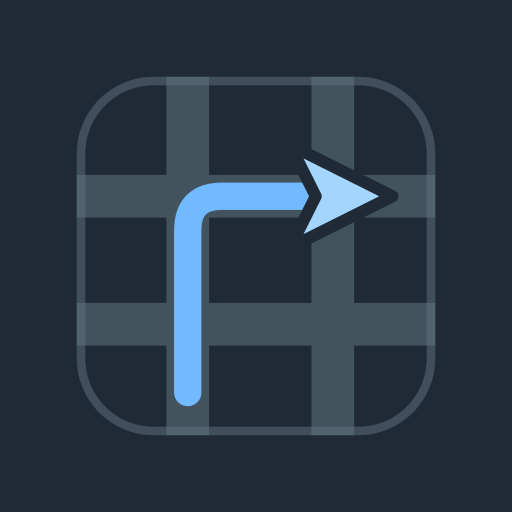
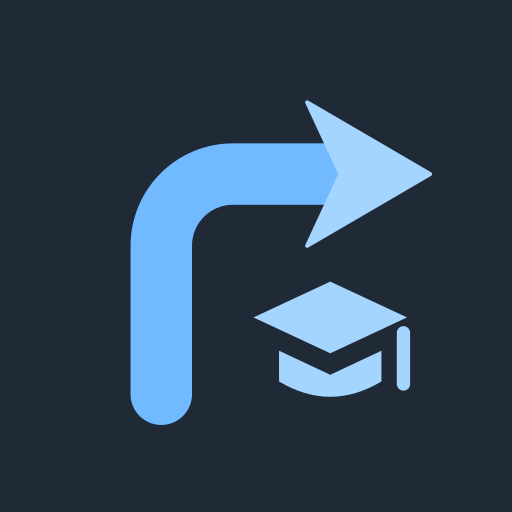
Apply B2 campus branding across the app

Changed region(s): [[0.125, 0.125, 0.875, 0.875]]

diff --git a/web/src/BrandMark.tsx b/web/src/BrandMark.tsx
@@ -1,42 +1,39 @@
-/** The offline map tile, with a right-facing navigation arrow. Keep the asset generator in sync. */
+/** B2 campus mark: a right-turn route and academic cap. Keep the asset generator in sync. */
 export function BrandMark({ size = 24 }: { size?: number }) {
   return (
     <svg
       width={size}
       height={size}
-      viewBox="0 0 42 42"
+      viewBox="0 0 100 100"
       fill="none"
       aria-hidden="true"
       focusable="false"
     >
-      <rect width="42" height="42" rx="9" fill="#202a36" />
+      <rect width="100" height="100" rx="22" fill="#202A36" />
       <path
-        d="M0 14h42M0 29h42M13 0v42M30 0v42"
-        stroke="#43535e"
-        strokeWidth="5"
-      />
-      <rect
-        x=".5"
-        y=".5"
-        width="41"
-        height="41"
-        rx="8.5"
-        stroke="#627582"
-        strokeOpacity=".5"
-      />
-      <path
-        d="M13 37V18q0-4 4-4h13"
-        stroke="#72baff"
-        strokeWidth="3.2"
+        d="M31.5 77V48A14 14 0 0 1 45.5 34H68"
+        stroke="#72BAFF"
+        strokeWidth="12"
         strokeLinecap="round"
       />
       <path
-        d="m37 14-12-6 3 6-3 6Z"
-        fill="#a4d5ff"
-        stroke="#202a36"
-        strokeWidth="1.4"
+        d="M84 34L60 20L66.5 34L60 48Z"
+        fill="#A4D5FF"
+        stroke="#A4D5FF"
+        strokeWidth=".8"
         strokeLinejoin="round"
       />
+      <g fill="#A4D5FF">
+        <path d="M49.5 62L64.5 55L79.5 62L64.5 69Z" />
+        <path d="M54.5 68.5L64.5 73.2L74.5 68.5V74.5Q64.5 80.5 54.5 74.5Z" />
+        <path
+          d="M78.8 65V75"
+          fill="none"
+          stroke="#A4D5FF"
+          strokeWidth="2.6"
+          strokeLinecap="round"
+        />
+      </g>
     </svg>
   );
 }

diff --git a/docs/BRAND.md b/docs/BRAND.md
@@ -1,6 +1,6 @@
 # TurnRight identity
 
-TurnRight’s mark adapts the public map’s offline tile: a slate street grid, a bright blue turning route and a navigation arrow at its endpoint. The simplified arrow and strong route remain readable at small sizes. The name remains **TurnRight** with a capital T and R.
+TurnRight’s selected **B2** mark combines a bold blue right-turn route with a graduation cap on a slate tile. The route identifies navigation; the cap signals school campuses. The clean background keeps the arrow prominent at small sizes. The name remains **TurnRight** with a capital T and R.
 
 ![TurnRight horizontal wordmark](assets/brand/wordmark.svg)
 
@@ -15,12 +15,14 @@ TurnRight’s mark adapts the public map’s offline tile: a slate street grid, 
 | `web/public/favicon.svg`, `icon-16.png`, `icon-32.png` | Browser icons |
 | `web/public/apple-touch-icon.png` | 180 px Apple touch icon |
 | `web/public/icon-192.png`, `icon-512.png` | Standard PWA icons |
-| `web/public/icon-maskable-192.png`, `icon-maskable-512.png` | Separately padded maskable PWA icons |
+| `web/public/icon-maskable-192.png`, `icon-maskable-512.png` | Full-background maskable PWA icons |
 
 The editable source is `web/src/BrandMark.tsx` and `web/scripts/brand-assets.mjs`. Regenerate assets with `node scripts/brand-assets.mjs` from `web/`. Wordmark text remains editable SVG text, using Inter with an Arial fallback. The app uses the same reusable BrandMark in public, editor and authentication views.
 
+The [11 October 2026 mobile capture](assets/brand/b2-public-mobile-2026-10-11.png) shows B2 in the local public app. It is an unaltered Chromium screenshot of the checked-in campus data, with [capture and asset verification records](assets/brand/b2-capture-2026-10-11.json).
+
 ## Usage
 
-Use slate **#202A36** for the tile, streets **#43535E**, route **#72BAFF** and arrow **#A4D5FF**. Use ink **#172C25** for text on light surfaces and white on dark surfaces. Forest green remains the interface accent. Leave at least one stroke-width of clear space around the symbol. Use the symbol without the wordmark at 16–32 px. Keep the original proportions and orientation; do not add shadows to the path, stretch it, or replace the arrow with a generic icon. The app tile background may have platform-specific corner treatment. Maskable artwork keeps the route and navigation arrow inside the central safe area; platform masks may crop the tile background. Monochrome variants simplify the grid to a tile outline, route and arrow so they reproduce in one ink.
+Use slate **#202A36** for the tile, route blue **#72BAFF**, and sky blue **#A4D5FF** for the arrow and cap. Use ink **#172C25** for text on light surfaces and white on dark surfaces. Forest green remains the interface accent. Leave at least one stroke-width of clear space around the symbol. Use the symbol without the wordmark at 16–32 px; the arrow carries the identity at the smallest size and the cap is a secondary detail. Keep the original proportions and orientation; do not add shadows to the path, stretch it, or replace the arrow or cap with generic icons. The app tile background may have platform-specific corner treatment. The route, arrow and cap fit inside the central safe circle with a radius of 40% of the icon width. Maskable and Apple touch icons use a full slate background so the platform can apply its own shape. Monochrome variants retain the route, arrow and cap in one ink without a tile background.
 
 Map-data colours retain their existing meaning: branding must not recolour validation issues, draft highlights, routes or thematic datasets. Verify light/dark contrast and the 16/32 px raster previews whenever changing the path. These assets are original repository artwork; this document does not add a software or data licence. Consult [attribution](../data/ATTRIBUTION.md) for source-data rights.
